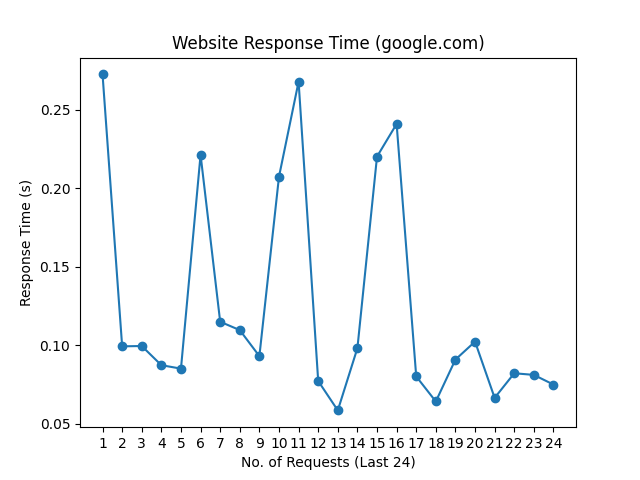
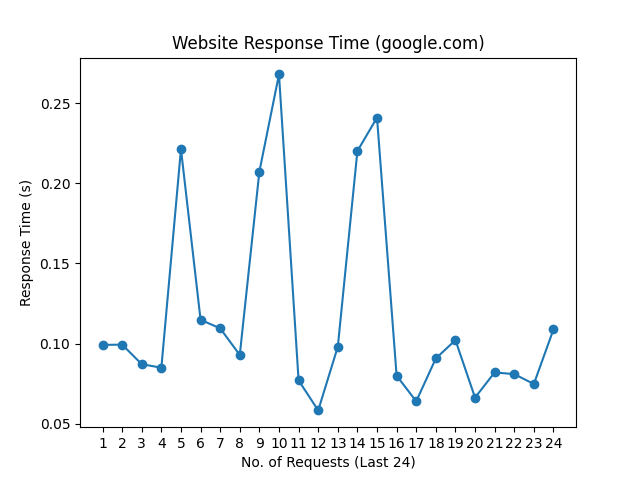
update README.md, history and graph

diff --git a/README.md b/README.md
@@ -1,10 +1,10 @@
 # Web Monitoring
 
-Last Checked: 07/02/2025 08:20
+Last Checked: 08/02/2025 08:19
 
 | Website | Response Time (s) | Status | Avg Uptime (%) |
 |---------|-------------------|--------|----------------|
 | www.thiswebsiteisdown.net | 0 <br> <img src="graph/thiswebsiteisdown.net.png" alt="Graph" width="200" height="200">  | ❌ Down | 0.00 |
-| www.netflix.com | 1.080151 <br> <img src="graph/netflix.com.png" alt="Graph" width="200" height="200">  | ✅ Up | 99.82 |
-| www.google.com | 0.074829 <br> <img src="graph/google.com.png" alt="Graph" width="200" height="200">  | ✅ Up | 100.00 |
-| www.facebook.com | 0.796813 <br> <img src="graph/facebook.com.png" alt="Graph" width="200" height="200">  | ✅ Up | 100.00 |
+| www.netflix.com | 0.633036 <br> <img src="graph/netflix.com.png" alt="Graph" width="200" height="200">  | ✅ Up | 99.82 |
+| www.google.com | 0.108840 <br> <img src="graph/google.com.png" alt="Graph" width="200" height="200">  | ✅ Up | 100.00 |
+| www.facebook.com | 0.363926 <br> <img src="graph/facebook.com.png" alt="Graph" width="200" height="200">  | ✅ Up | 100.00 |
